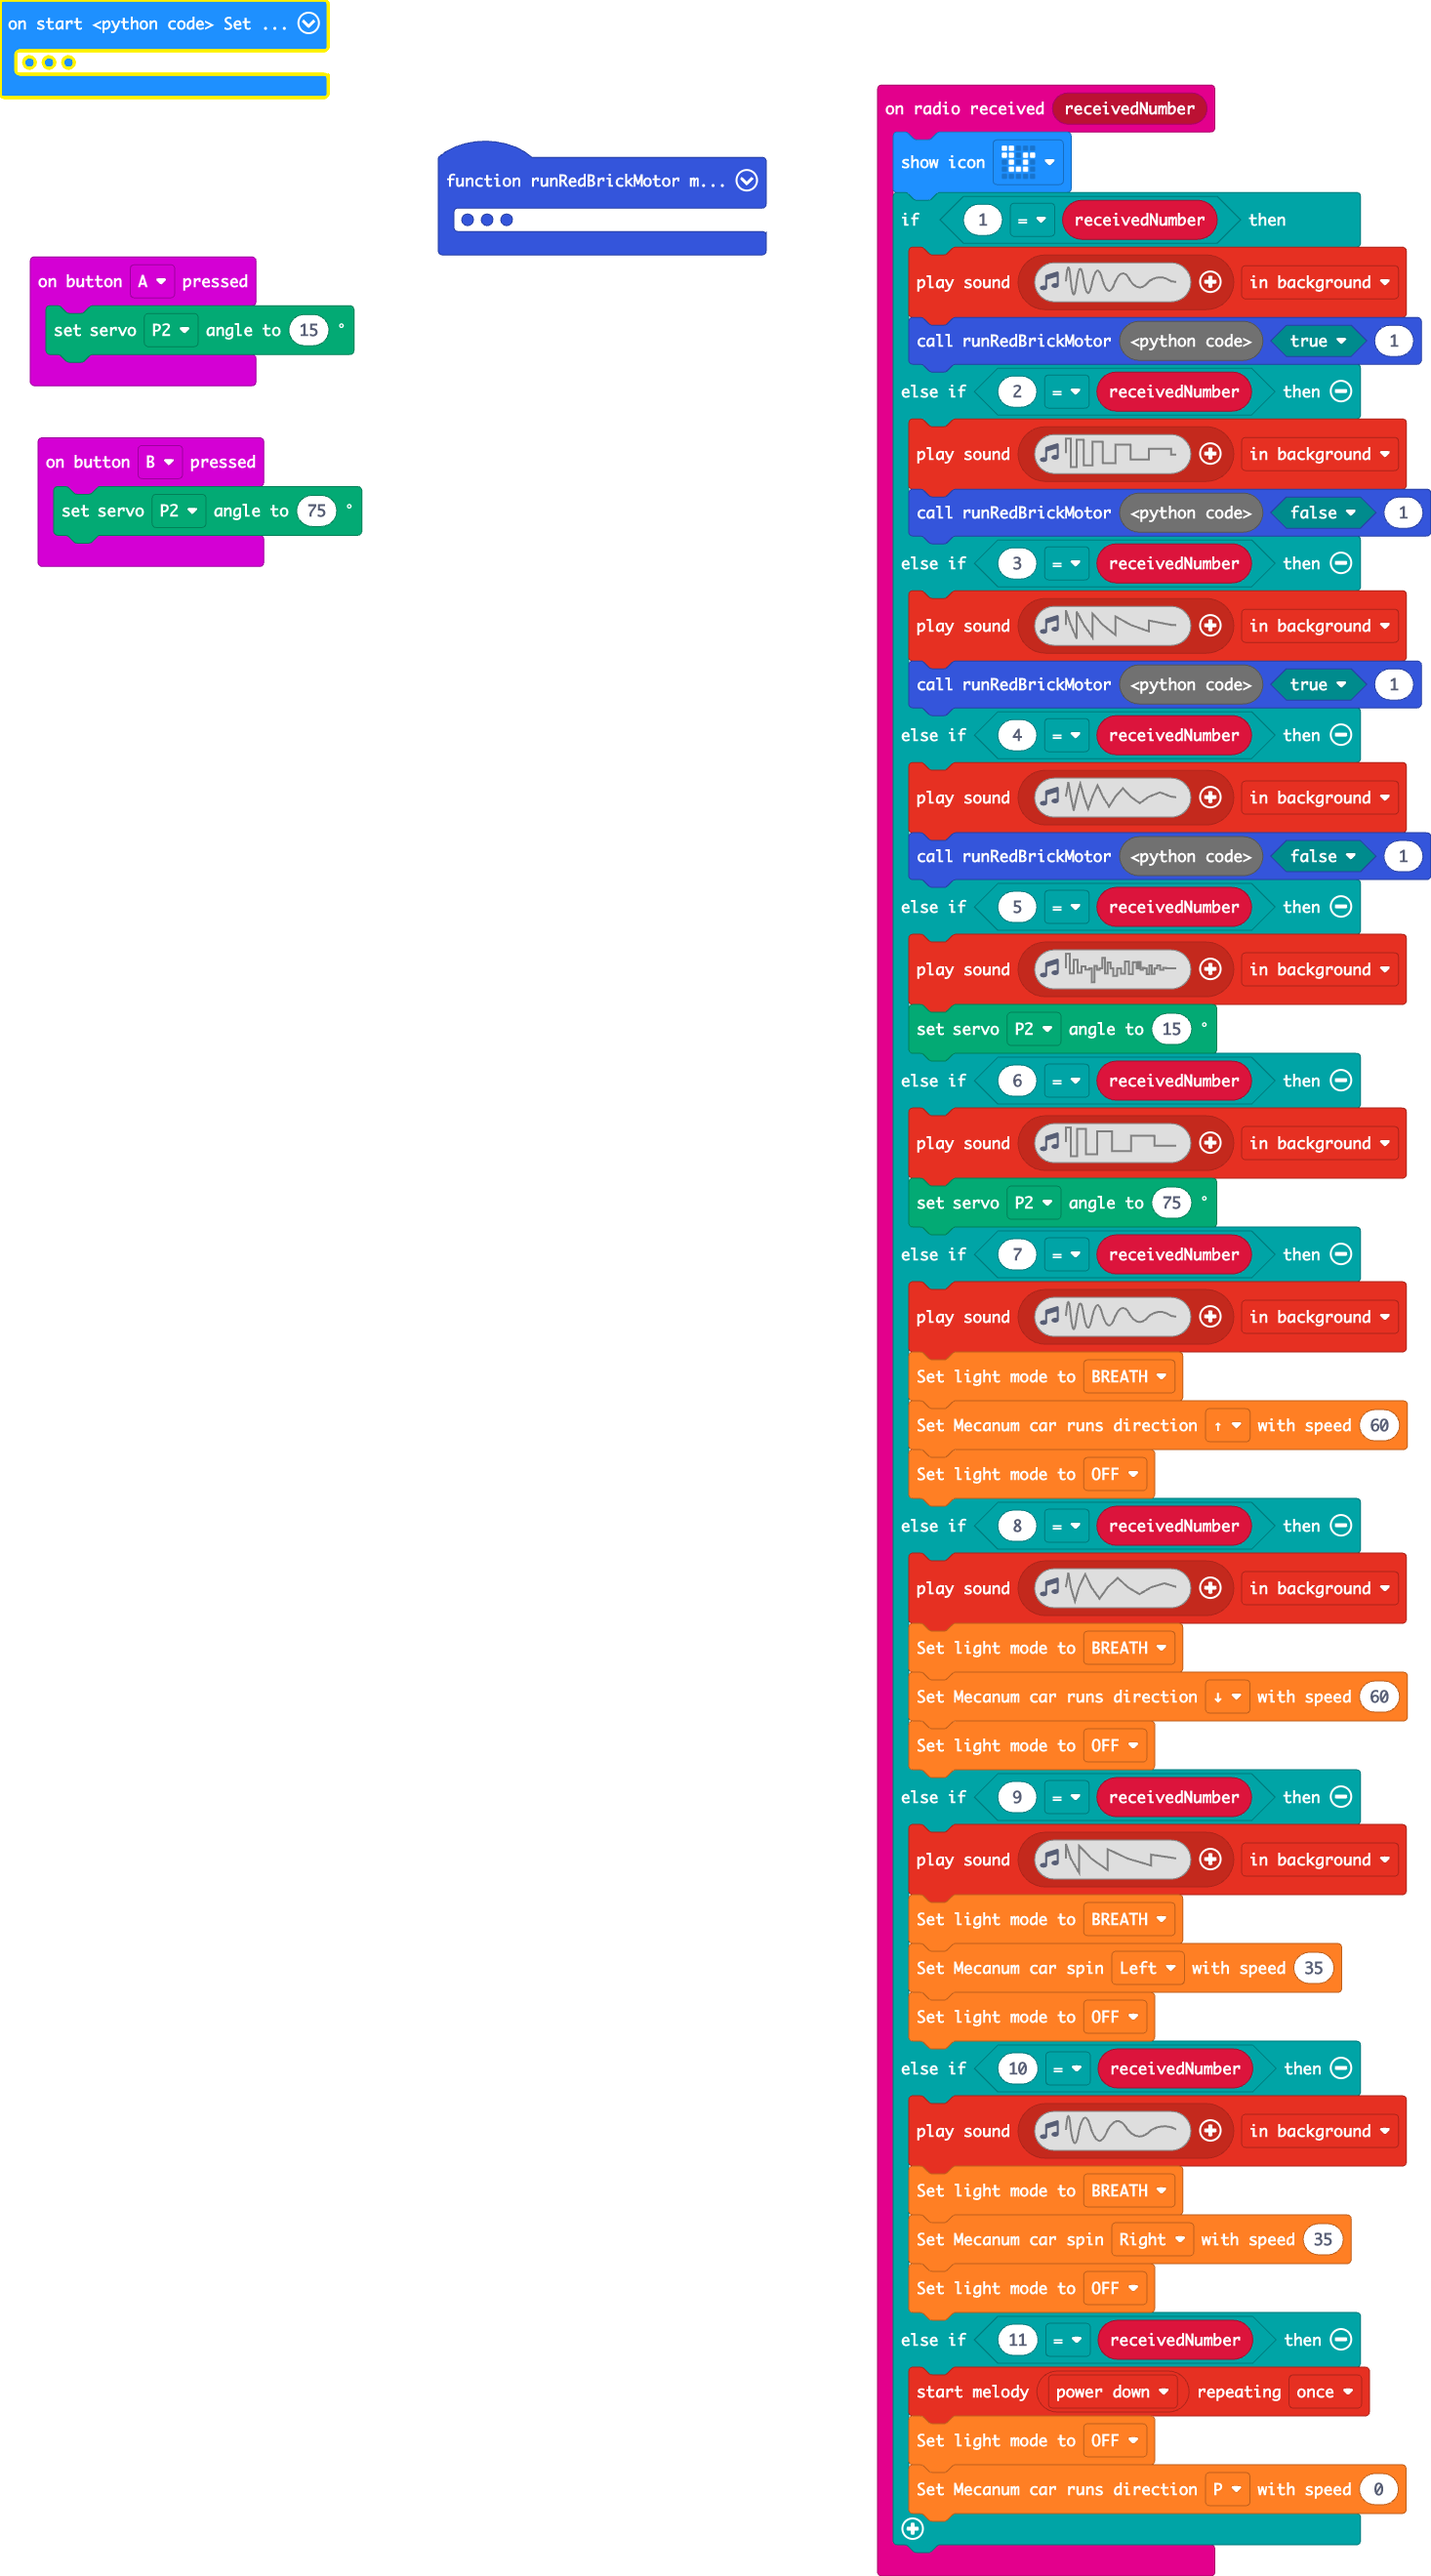
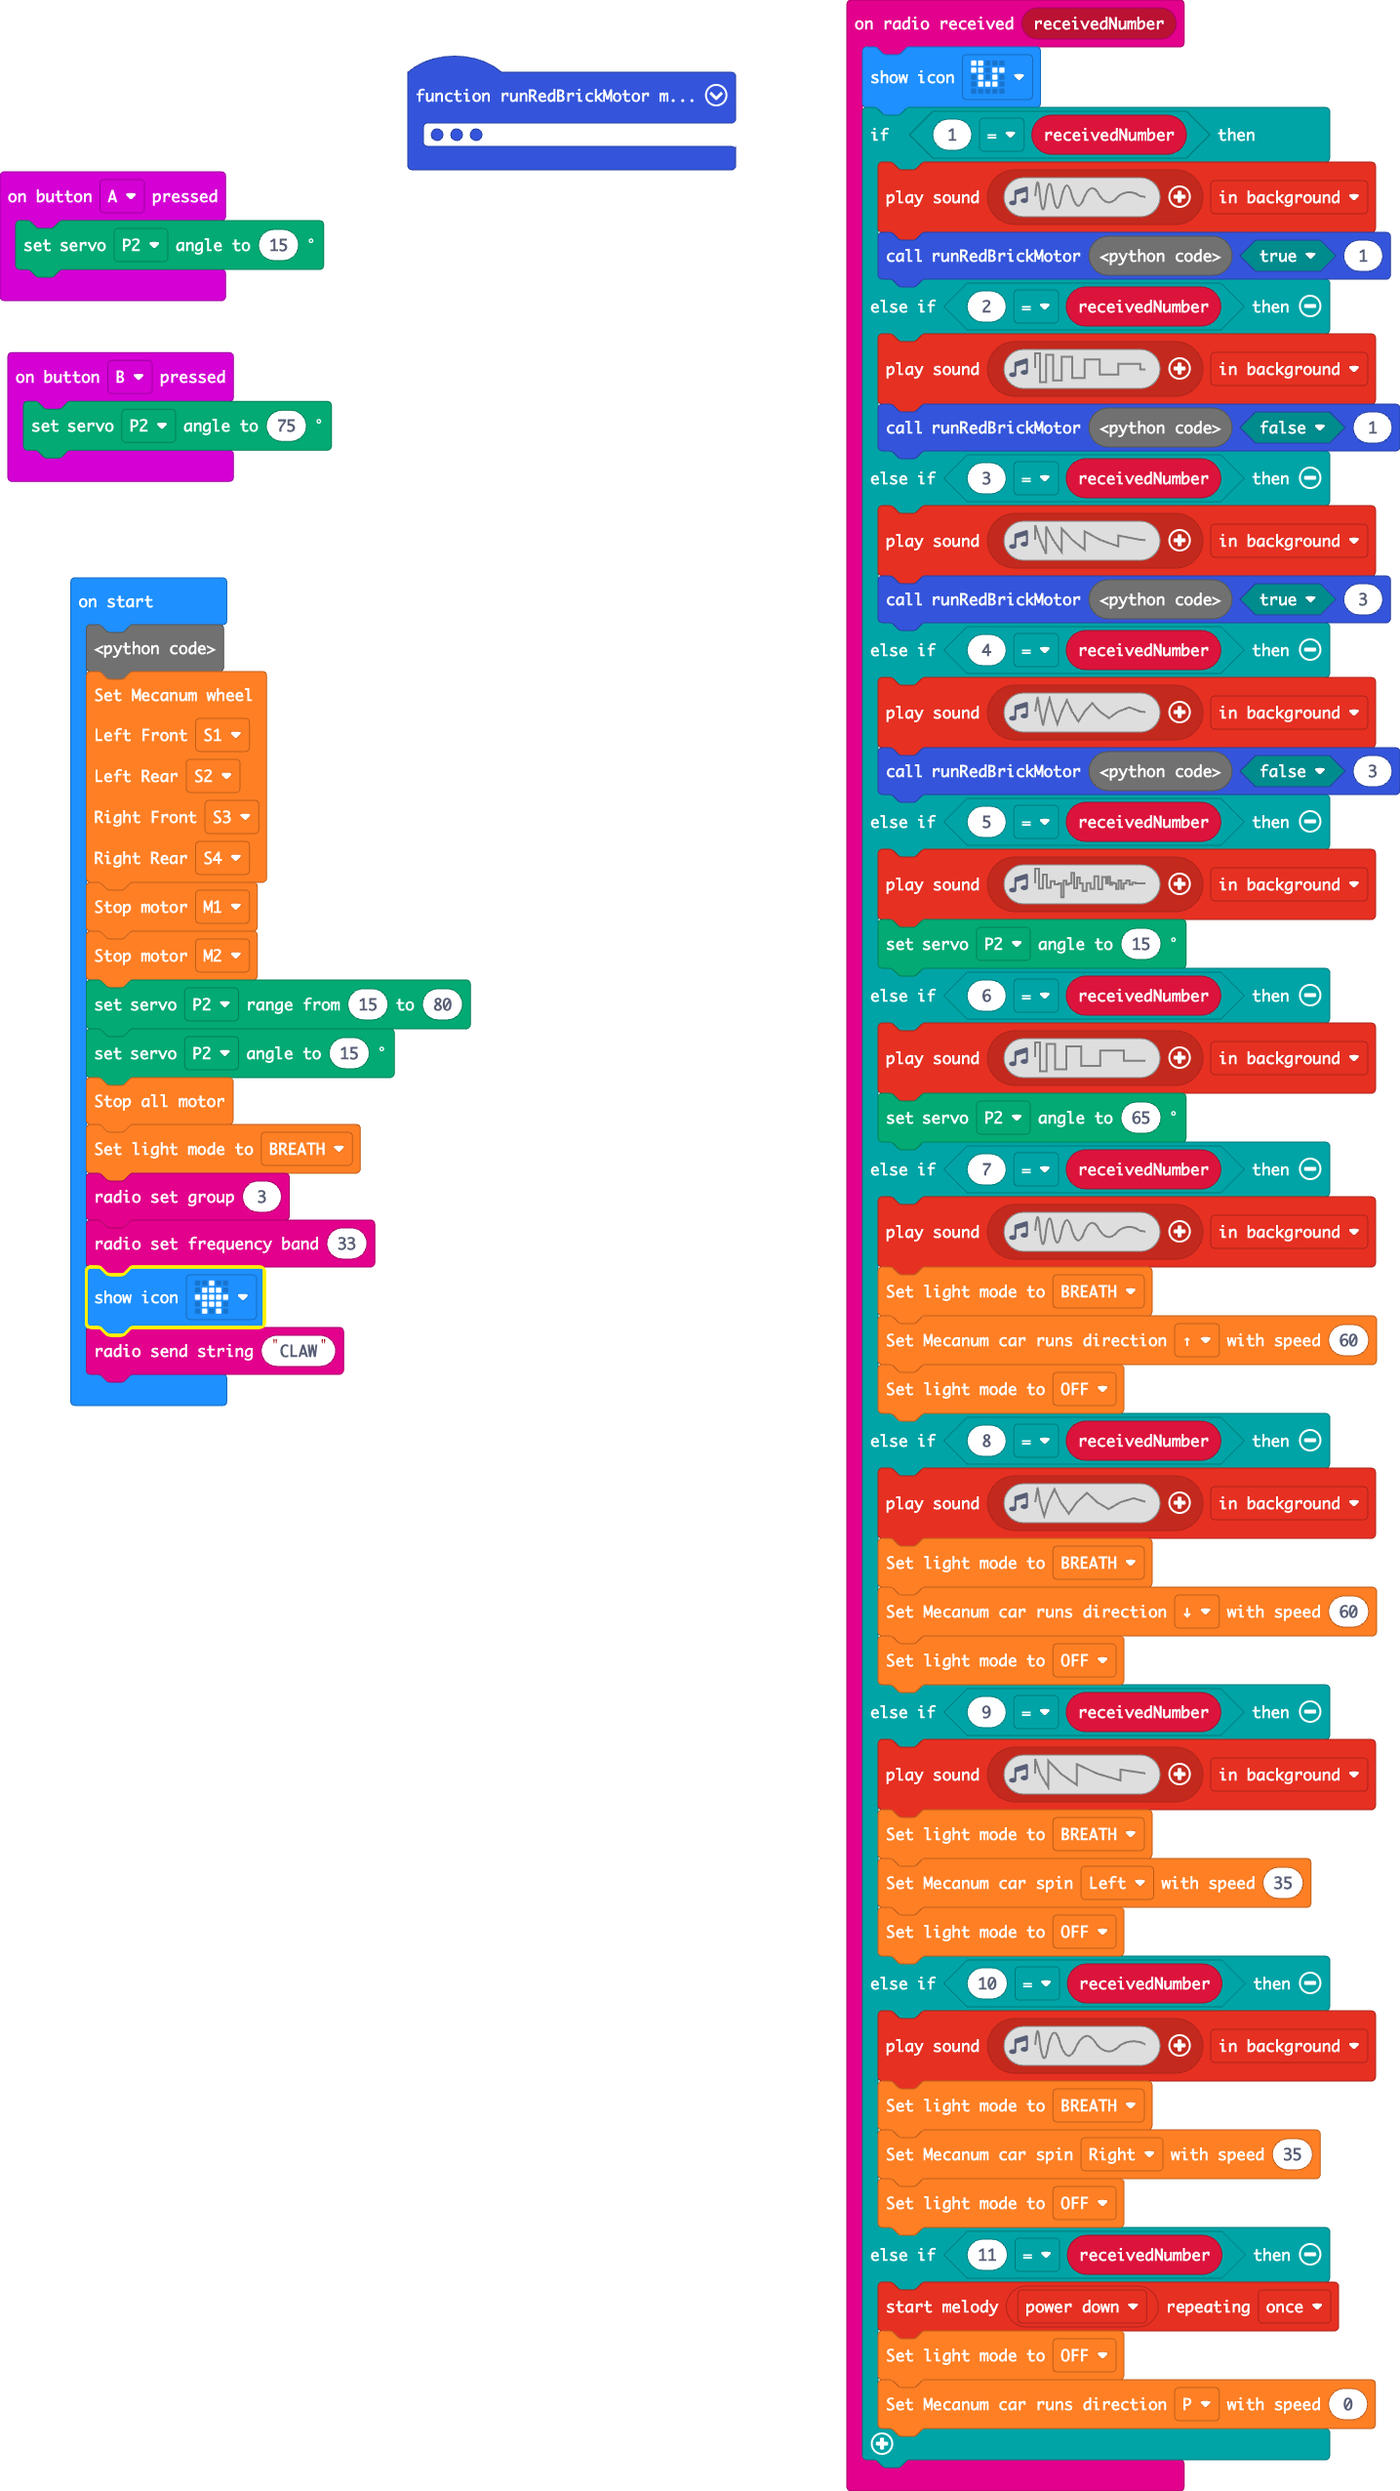
Update main.blocks, main.ts

diff --git a/main.ts b/main.ts
@@ -8,16 +8,16 @@ radio.onReceivedNumber(function (receivedNumber) {
         runRedBrickMotor(wuKong.MotorList.M2, false, 1)
     } else if (3 == receivedNumber) {
         music.playSoundEffect(music.createSoundEffect(WaveShape.Sawtooth, 5000, 0, 255, 0, 500, SoundExpressionEffect.None, InterpolationCurve.Linear), SoundExpressionPlayMode.InBackground)
-        runRedBrickMotor(wuKong.MotorList.M1, true, 1)
+        runRedBrickMotor(wuKong.MotorList.M1, true, 3)
     } else if (4 == receivedNumber) {
         music.playSoundEffect(music.createSoundEffect(WaveShape.Triangle, 5000, 0, 255, 0, 500, SoundExpressionEffect.None, InterpolationCurve.Linear), SoundExpressionPlayMode.InBackground)
-        runRedBrickMotor(wuKong.MotorList.M1, false, 1)
+        runRedBrickMotor(wuKong.MotorList.M1, false, 3)
     } else if (5 == receivedNumber) {
         music.playSoundEffect(music.createSoundEffect(WaveShape.Noise, 5000, 0, 255, 0, 500, SoundExpressionEffect.None, InterpolationCurve.Linear), SoundExpressionPlayMode.InBackground)
         servos.P2.setAngle(15)
     } else if (6 == receivedNumber) {
         music.playSoundEffect(music.createSoundEffect(WaveShape.Square, 5000, 0, 255, 0, 500, SoundExpressionEffect.Vibrato, InterpolationCurve.Curve), SoundExpressionPlayMode.InBackground)
-        servos.P2.setAngle(75)
+        servos.P2.setAngle(65)
     } else if (7 == receivedNumber) {
         music.playSoundEffect(music.createSoundEffect(WaveShape.Sine, 5000, 0, 255, 0, 500, SoundExpressionEffect.Tremolo, InterpolationCurve.Linear), SoundExpressionPlayMode.InBackground)
         wuKong.setLightMode(wuKong.LightMode.BREATH)
@@ -76,5 +76,5 @@ wuKong.stopAllMotor()
 wuKong.setLightMode(wuKong.LightMode.BREATH)
 radio.setGroup(3)
 radio.setFrequencyBand(33)
-basic.showIcon(IconNames.StickFigure)
+basic.showIcon(IconNames.House)
 radio.sendString("CLAW")
